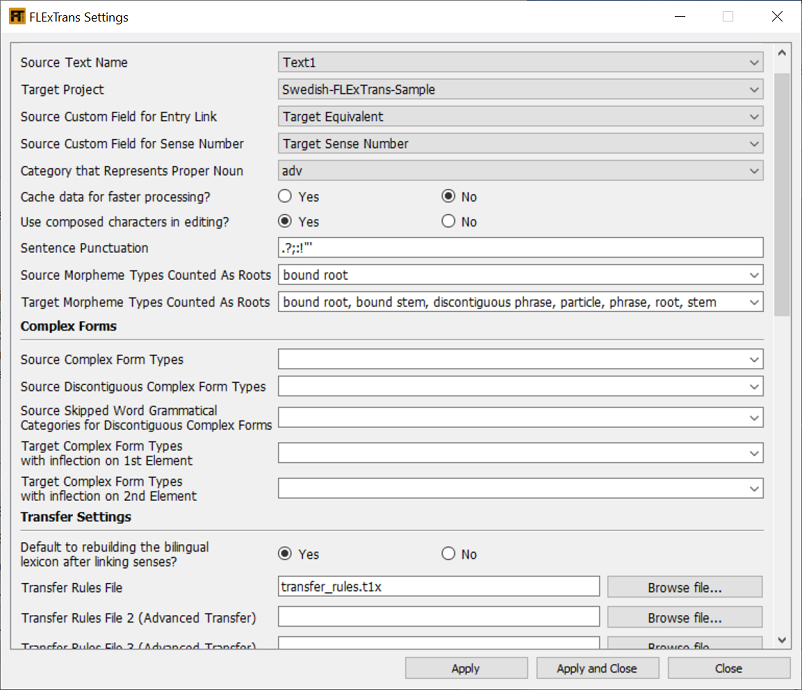
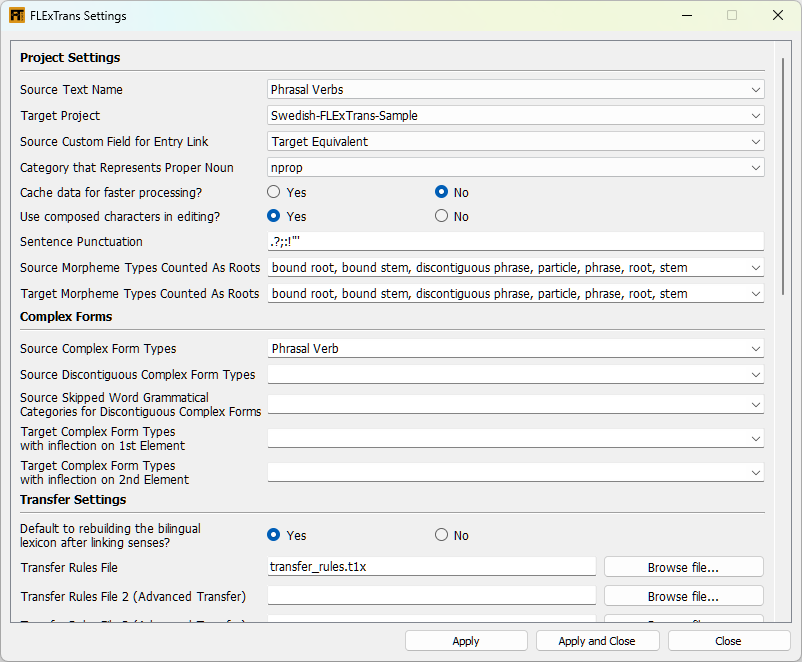
initial

diff --git a/Doc/UserDoc.htm b/Doc/UserDoc.htm
@@ -140,6 +140,10 @@
                   <li><a href="#sInflVariantSrc">7.3.4&nbsp;How do I handle inflectional variants in the source language? (video)</a></li>
                   <li><a href="#sSynthesisSelfTest">7.3.5&nbsp;How do I run a Synthesis Self-Test?</a></li>
                   <li><a href="#sHermitCrab">7.3.6&nbsp;What do I do to use my <span style="font-family:Courier New; font-weight:bold; color:navy; ">HermitCrab</span> parsing model in synthesis?</a></li>
+                  <li><a href="#sPhrasalVerbs">7.3.7&nbsp;How do I deal with phrasal verbs using <span style="font-family:Courier New; font-weight:bold; color:navy; ">FLExTrans</span>?</a></li>
+                  <ul>
+                     <li><a href="#sPVSrcIsPhrasal">7.3.7.1&nbsp;The source uses a phrasal verb, but the target uses a normal verb</a></li>
+                  </ul>
                </ul>
             </ul>
             <li><a href="#sReferenceDocs">8&nbsp;Reference documents</a></li>
@@ -572,7 +576,7 @@
          is a menu that allows adjusting settings for the modules.
       </p>
       <h2 style=""><a name="sSettings"></a>3.1&nbsp;The <span style="font-family:Courier New; font-weight:bold; color:navy; ">Settings Tool</span></h2>
-      <p>The <span style="font-family:Courier New; font-weight:bold; color:navy; ">Settings Tool</span> is a tool that helps get <span style="font-family:Courier New; font-weight:bold; color:navy; ">FLExTrans</span> configured the way you want it. You launch the <span style="font-family:Courier New; font-weight:bold; color:navy; ">Settings Tool</span> by selecting <span style="font-family:Courier New; font-weight:bold; color:#009933; ">FLExTrans</span> &gt; <span style="font-family:Courier New; font-weight:bold; color:#009933; ">Settings</span> from the <span style="font-family:Courier New; font-weight:bold; color:navy; ">FLExTools</span> menu. Hover over the text box or Browse button to get an explanation of the setting. For file or folder names in the <span style="font-family:Courier New; font-weight:bold; color:navy; ">Settings Tool</span>, you can rename the file to be used by simply typing the changes in the pertinent text box.
+      <p>The <span style="font-family:Courier New; font-weight:bold; color:navy; ">Settings Tool</span> is a tool that helps get <span style="font-family:Courier New; font-weight:bold; color:navy; ">FLExTrans</span> configured the way you want it. You launch the <span style="font-family:Courier New; font-weight:bold; color:navy; ">Settings Tool</span> by selecting <span style="font-family:Courier New; font-weight:bold; color:#009933; ">FLExTrans</span> &gt; <span style="font-family:Courier New; font-weight:bold; color:#009933; ">Settings</span> from the <span style="font-family:Courier New; font-weight:bold; color:navy; ">FLExTools</span> menu. Hover over the text box or <span style="font-style:normal; font-weight:bold; ">Browse</span> button to get an explanation of the setting. For file or folder names in the <span style="font-family:Courier New; font-weight:bold; color:navy; ">Settings Tool</span>, you can rename the file to be used by simply typing the changes in the pertinent text box.
       </p>
       <div style="margin-left: 0.25in; margin-right: 0.25in">
          <table>
@@ -701,7 +705,7 @@
       <h3 style=""><a name="sRebuildBiling"></a>4.1.7&nbsp;Rebuild the Bilingual Lexicon
       </h3>
       <p>After finishing sense linking, sooner or later you need to rebuild the bilingual lexicon. If the <span style="font-style:normal; font-weight:bold; ">Rebuild the Bilingual Lexicon</span> check box is checked, this will happen automatically when you click OK. If you would like to change whether by default this
-         box is checked or unchecked when you start the <span style="font-family:Courier New; font-weight:bold; color:navy; ">Sense Linker Tool</span>, set the corresponding setting in the <span style="font-family:Courier New; font-weight:bold; color:navy; ">Settings Tool</span> tool.
+         box is checked or unchecked when you start the <span style="font-family:Courier New; font-weight:bold; color:navy; ">Sense Linker Tool</span>, set the corresponding setting in the <span style="font-family:Courier New; font-weight:bold; color:navy; ">Settings Tool</span>.
       </p>
       <h3 style=""><a name="sSLTChangeSource"></a>4.1.8&nbsp;Change Source Text
       </h3>
@@ -765,7 +769,7 @@
       <p>By default the transfer rules file, the bilingual lexicon file and the source text are loaded according to the <span style="font-family:Courier New; font-weight:bold; color:navy; ">FLExTrans</span> settings. If you want to rebuild the bilingual lexicon, perhaps after changing something in a lexicon, click the <span style="font-style:normal; font-weight:bold; ">Rebuild Bilingual Lexicon</span> button.
       </p>
       <p>You may have noticed that there is a Manual Entry tab for the source text words. You can enter words (technically word-senses)
-         directly in plain text data stream format<span style="font-size:65%; vertical-align:super">[<a href="#nRawDataStream">13</a>]</span>. This might be useful if you want to test a word-sense that isn&#8217;t in a given text.
+         directly in plain text data stream format<span style="font-size:65%; vertical-align:super">[<a href="#nRawDataStream">14</a>]</span>. This might be useful if you want to test a word-sense that isn&#8217;t in a given text.
       </p>
       <p>The <span style="font-style:normal; font-weight:bold; ">Interchunk</span> and <span style="font-style:normal; font-weight:bold; ">Postchunk</span> tabs are for use in testing rules using the advanced <span style="font-family:Courier New; font-weight:bold; color:navy; ">Apertium</span> transfer engine.
       </p>
@@ -850,7 +854,7 @@
       <h3 style=""><a name="sPtxExport"></a>4.4.2&nbsp;<span style="font-family:Courier New; font-weight:bold; color:navy; ">Paratext</span> Export
       </h3>
       <p>To export chapters to <span style="font-family:Courier New; font-weight:bold; color:navy; ">Paratext</span> from the active text, use the <span style="font-family:Courier New; font-weight:bold; color:navy; ">Export Text From Paratext</span> module. This tool is designed to work well with a text that you have previously imported with the <span style="font-family:Courier New; font-weight:bold; color:navy; ">Import Text From Paratext</span> module. In other words, the export tool expects the active source text to be in the form John 03-04 or JHN 03-04. Use the
-         <span style="font-family:Courier New; font-weight:bold; color:navy; ">Settings Tool</span> tool if you need to change the active source text. The tool will find the book and chapters in the given <span style="font-family:Courier New; font-weight:bold; color:navy; ">Paratext</span> project and replace the text that was there with the text created by <span style="font-family:Courier New; font-weight:bold; color:navy; ">FLExTrans</span>.<span style="font-size:65%; vertical-align:super">[<a href="#nSynFile">3</a>]</span> Note: the <span style="font-family:Courier New; font-weight:bold; color:navy; ">Paratext</span> project must be a project that you are at least a <span style="font-style:italic; ">Translator</span> on. Also, the <span style="font-family:Courier New; font-weight:bold; color:navy; ">Paratext</span> book must already exist.
+         <span style="font-family:Courier New; font-weight:bold; color:navy; ">Settings Tool</span> if you need to change the active source text. The tool will find the book and chapters in the given <span style="font-family:Courier New; font-weight:bold; color:navy; ">Paratext</span> project and replace the text that was there with the text created by <span style="font-family:Courier New; font-weight:bold; color:navy; ">FLExTrans</span>.<span style="font-size:65%; vertical-align:super">[<a href="#nSynFile">3</a>]</span> Note: the <span style="font-family:Courier New; font-weight:bold; color:navy; ">Paratext</span> project must be a project that you are at least a <span style="font-style:italic; ">Translator</span> on. Also, the <span style="font-family:Courier New; font-weight:bold; color:navy; ">Paratext</span> book must already exist.
       </p>
       <p>Normally this module should be run after the <span style="font-family:Courier New; font-weight:bold; color:navy; ">Extract Target Lexicon</span> module.
       </p>
@@ -2540,7 +2544,7 @@
             <ol style="list-style-type:lower-alpha; ">
                <li>Launch the <span style="font-family:Courier New; font-weight:bold; color:navy; ">Settings Tool</span> by selecting <span style="font-family:Courier New; font-weight:bold; color:#009933; ">FLExTrans</span> &gt; <span style="font-family:Courier New; font-weight:bold; color:#009933; ">Settings</span> from the <span style="font-family:Courier New; font-weight:bold; color:navy; ">FLExTools</span> menu.
                </li>
-               <li>Click <span style="font-weight:bold; ">Yes</span> for <span style="font-style:italic; ">Use HermitCrab synthesis</span> as shown in <a href="#xHermitCrabYesNo">(88)</a>.
+               <li>Click <span style="font-style:italic; ">Yes</span> for <span style="font-weight:bold; color:#964B00; ">Use HermitCrab synthesis</span> as shown in <a href="#xHermitCrabYesNo">(88)</a>.
                   <div style="margin-left: 0.25in; margin-right: 0.25in">
                      <table>
                         <tr>
@@ -2658,6 +2662,44 @@
       </ol>
       <p>The <span style="font-family:Courier New; font-weight:bold; color:navy; ">HermitCrab</span> synthesis tool will replace any #s with spaces.
       </p>
+      <h3 style=""><a name="sPhrasalVerbs"></a>7.3.7&nbsp;How do I deal with phrasal verbs using <span style="font-family:Courier New; font-weight:bold; color:navy; ">FLExTrans</span>?
+      </h3>
+      <p>A phrasal verb is a verb that consists of two or more words. Often there is a verbal component and a non-verbal component.
+         This discussion assumes that a verbal component is present.
+      </p>
+      <p>If the source and target language both use a phrasal verb for a verbal concept and the non-verbal component(s) and verbal
+         component individually match between the languages. You have nothing to worry about. Just link each component sense in the
+         source to appropriate target sense.
+      </p>
+      <p>If you have a situation where there isn't a match, there are steps you can take to have <span style="font-family:Courier New; font-weight:bold; color:navy; ">FLExTrans</span> translate correctly. Let's take each situation in turn.
+      </p>
+      <p></p>
+      <p></p>
+      <p></p>
+      <p></p>
+      <h4 style=""><a name="sPVSrcIsPhrasal"></a>7.3.7.1&nbsp;The source uses a phrasal verb, but the target uses a normal verb
+      </h4>
+      <p>In this case you want to link the entire source phrasal verb to the one word target. Here are the steps:</p>
+      <ol style="list-style-type:decimal; ">
+         <li>Create the phrasal verb as its own entry in the source <span style="font-family:Courier New; font-weight:bold; color:navy; ">FLEx</span> project.
+            <ol style="list-style-type:lower-alpha; ">
+               <li>In the source <span style="font-family:Courier New; font-weight:bold; color:navy; ">FLEx</span> project create a custom category <span style="color:#0070c0; ">Verb Phrasal</span>. (This is recommended, but not required.) 
+               </li>
+               <li>Put the whole phrasal verb as the <span style="color:#cc9900; ">Lexeme Form</span>.
+               </li>
+               <li>Set the <span style="color:#cc9900; ">Morph Type</span> to phrase
+               </li>
+               <li>Set the <span style="color:#cc9900; ">Grammatical Info.</span> to <span style="color:#0070c0; ">Verb Phrasal</span></li>
+               <li>Set <span style="color:#cc9900; ">Components</span> to the two words that form the phrasal verb. Note: the components should be the order they occur in the phrasal verb.<span style="font-size:65%; vertical-align:super">[<a href="#nMoveComponent">12</a>]</span></li>
+               <li>Set the <span style="color:#cc9900; ">Complex Form Type</span> to <span style="color:#990099; ">Phrasal Verb</span> 
+               </li>
+            </ol>
+         </li>
+         <li>Open the <span style="font-family:Courier New; font-weight:bold; color:navy; ">FLExTrans</span> <span style="font-family:Courier New; font-weight:bold; color:navy; ">Settings Tool</span>.
+         </li>
+         <li>Change <span style="font-weight:bold; color:#964B00; ">Source Complex Form Types</span> to Phrasal Verb.
+         </li>
+      </ol>
       <h1 style=""><a name="sReferenceDocs"></a>8&nbsp;Reference documents
       </h1>
       <p>The first version of <span style="font-family:Courier New; font-weight:bold; color:navy; ">FLExTrans</span> was produced as part of a Master&#8217;s Thesis see <a href="#rLockwood15">Lockwood (2015)</a>. In 2018 and 2021 Ron presented papers about <span style="font-family:Courier New; font-weight:bold; color:navy; ">FLExTrans</span> at the respective BT Conferences. See <a href="#rLockwood17">Lockwood (2018)</a> and <a href="#rLockwood21a">Lockwood (2021a)</a>. Also in 2021 Ron presented on Syntactic Parsing as a front-end to <span style="font-family:Courier New; font-weight:bold; color:navy; ">FLExTrans</span>. See <a href="#rLockwood21b">Lockwood (2021b)</a>.
@@ -2680,8 +2722,8 @@
       </h1>
       <p>The <a name="gDataStream"></a><span style="font-family:Courier New; font-weight:bold; color:navy; ">Apertium</span> data stream format consists of one or more lexical units. In <span style="font-family:Courier New; font-weight:bold; color:navy; ">FLExTrans</span>, a lexical unit looks something like this:
       </p>
-      <p><span style="font-family:Courier New; font-size:90%; font-style:normal; font-weight:bold; ">take<span style="font-size:65%; vertical-align:sub;">1.1</span> <span style="font-family:Courier New; font-size:90%; color:#0070c0; ">v</span> <span style="font-family:Courier New; font-size:90%; color:#00B050; ">3sg</span><span style="font-size:65%; vertical-align:super">[<a href="#nToolToView">12</a>]</span><span style="font-size:65%; vertical-align:super">,&nbsp;[<a href="#nRawDataStream">13</a>]</span></span></p>
-      <p>Where take<span style="font-size:65%; vertical-align:sub;">1</span><span style="font-size:65%; vertical-align:super">[<a href="#nNoOneHomograph">14</a>]</span> is the headword from <span style="font-family:Courier New; font-weight:bold; color:navy; ">FLEx</span>. The 1.1 subscript means homograph one, sense one. The grammatical category is colored in blue and all other tags are colored
+      <p><span style="font-family:Courier New; font-size:90%; font-style:normal; font-weight:bold; ">take<span style="font-size:65%; vertical-align:sub;">1.1</span> <span style="font-family:Courier New; font-size:90%; color:#0070c0; ">v</span> <span style="font-family:Courier New; font-size:90%; color:#00B050; ">3sg</span><span style="font-size:65%; vertical-align:super">[<a href="#nToolToView">13</a>]</span><span style="font-size:65%; vertical-align:super">,&nbsp;[<a href="#nRawDataStream">14</a>]</span></span></p>
+      <p>Where take<span style="font-size:65%; vertical-align:sub;">1</span><span style="font-size:65%; vertical-align:super">[<a href="#nNoOneHomograph">15</a>]</span> is the headword from <span style="font-family:Courier New; font-weight:bold; color:navy; ">FLEx</span>. The 1.1 subscript means homograph one, sense one. The grammatical category is colored in blue and all other tags are colored
          in green.
       </p>
       <hr size="3"><a name="rXLingPapEndnotes"></a><p style=""><big><big><big><b>Endnotes</b></big></big></big></p>
@@ -2703,7 +2745,7 @@
          <tr>
             <td valign="top"><a name="nSynFile">[3]</a></td>
             <td>
-               <p>The text will be taken from the <span style="font-style:italic; ">Target Output Synthesis File</span> as defined in the <span style="font-family:Courier New; font-weight:bold; color:navy; ">Settings Tool</span>. This is the file created by the <span style="font-family:Courier New; font-weight:bold; color:navy; ">Extract Target Lexicon</span> module.
+               <p>The text will be taken from the <span style="font-style:italic; ">Target Output Synthesis File</span> as defined in the settings. This is the file created by the <span style="font-family:Courier New; font-weight:bold; color:navy; ">Extract Target Lexicon</span> module.
                </p>
             </td>
          </tr>
@@ -2763,14 +2805,20 @@
             </td>
          </tr>
          <tr>
-            <td valign="top"><a name="nToolToView">[12]</a></td>
+            <td valign="top"><a name="nMoveComponent">[12]</a></td>
+            <td>
+               <p>You can right-click on a component word and select Move Left or Move Right.</p>
+            </td>
+         </tr>
+         <tr>
+            <td valign="top"><a name="nToolToView">[13]</a></td>
             <td>
                <p>You can use the <span style="font-family:Courier New; font-weight:bold; color:navy; ">View Source/Target Apertium File Tool</span> for a more friendly view of the data stream format found in the files <span style="font-style:italic; ">source_text.txt</span> and <span style="font-style:italic; ">target_text.txt</span>.
                </p>
             </td>
          </tr>
          <tr>
-            <td valign="top"><a name="nRawDataStream">[13]</a></td>
+            <td valign="top"><a name="nRawDataStream">[14]</a></td>
             <td>
                <p>In the plain format the stream format can be explained as follows:</p>
                <table>
@@ -2786,7 +2834,7 @@
             </td>
          </tr>
          <tr>
-            <td valign="top"><a name="nNoOneHomograph">[14]</a></td>
+            <td valign="top"><a name="nNoOneHomograph">[15]</a></td>
             <td>
                <p>Technically <span style="font-family:Courier New; font-weight:bold; color:navy; ">FLEx</span> only displays a subscript 1 if there is a homograph that exists with subscript 2. Without any homograph the <span style="font-family:Courier New; font-weight:bold; color:navy; ">FLEx</span> headword is just plain -- without any subscript.
                </p>
